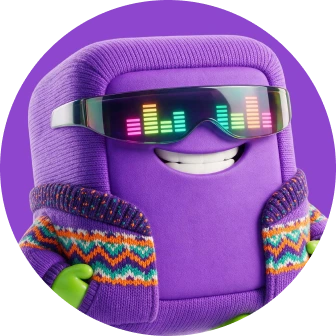
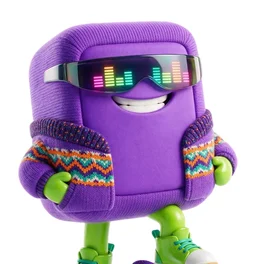
fix(learning): карта и итоги без прокрутки, ровные иконки королей
Карта. Остров держит соотношение 1600/2111, и на телефоне он выходил 495px
при 687px области — снизу оставалась белая плита. Плюс `.learn` жил на
min-height: 100vh, а это ВЫСОКИЙ вьюпорт: пока адресная строка показана,
страница выше видимой области и ездит на её высоту. Клиент назвал это «баги
из-за скрола».

Теперь высота от видимой области (dvh), прокрутка закрыта, а остров тянется
на всю высоту: ширину ему считает aspect-ratio, лишнее срезается по бокам.
Кроп именно боковой — координаты узлов заданы в процентах от канваса, и
разойдись канвас с картинкой в пропорциях, короли уехали бы со своих городов.
Все шесть сидят в пределах 39–63% ширины, проверено на 375×812, 412×880 и
360×640: ни один узел за экран не выходит, документ равен вьюпорту.

Узлы заодно стали крупнее: канвас теперь шире экрана, а размеры узлов заданы
в cqw от него.

Итоги урока. На 360×640 под них остаётся 515px, а карточка набирала 643 —
приходилось скроллить 160px, и обе кнопки уходили за нижний край; на 320×568
скролла было 232px. Добавлены две ступени по высоте экрана. Проверено на
четырёх размерах: прокрутка везде 0, кнопки на экране.

Иконки королей. Были нарезаны на глаз и врозь: разный зум, у части срезаны
руки, фон залит цветом кольца вместо белого. В исходниках все шесть маскотов
скадрированы одинаково (контент x[56..455], y[52..511], центр 256), так что
кадр теперь считается, а не подбирается — одинаковые поля у всех шести, белый
фон, фигура целиком. Заодно 202 КБ -> 84 КБ.
[…]

diff --git a/src/styles.css b/src/styles.css
@@ -2960,6 +2960,62 @@ textarea {
     top: 64px;
     font-size: 15px;
   }
+
+  /* Карта на телефоне — экран без прокрутки.
+     Остров держит соотношение 1600/2111, и на узкой ширине он выходил всего
+     495px при 687px области: снизу оставалась белая плита, а страница ездила на
+     высоту адресной строки (min-height: 100vh — это ВЫСОКИЙ вьюпорт, больше
+     видимой области, когда строка показана). Клиент это и назвал «из-за скрола».
+     Поэтому высоту задаём от видимой области (dvh), а остров тянем по высоте:
+     ширину ему считает aspect-ratio, лишнее по бокам срезается.
+
+     Кроп именно по бокам, а не подгонка соотношения: координаты узлов заданы в
+     процентах от канваса, и стоит канвасу разойтись с картинкой в пропорциях,
+     как короли уедут со своих городов. Все шесть сидят в пределах 39–63% ширины,
+     так что срезанные края узлов не задевают. */
+  .learn:has(.lp--map) {
+    height: 100dvh;
+    min-height: 0;
+    overflow: hidden;
+  }
+  /* Высоту раздаём флексом, а не процентами: .learn__main растянут
+     align-items: stretch, и процентная высота у его детей разрешается в ноль. */
+  .learn__main:has(.lp--map) {
+    overflow: hidden;
+    display: flex;
+    flex-direction: column;
+  }
+  .lp.lp--map {
+    flex: 1;
+    min-height: 0;
+    display: flex;
+    flex-direction: column;
+    /* .lp — грид с gap: 30px и align-items: start; переключая его во флекс, оба
+       надо перебить: gap стал бы полосой между нулевой шапкой и картой, а start
+       по поперечной оси не растягивает — и .lp-map схлопывался в нулевую
+       ширину, унося центрирование канваса. */
+    gap: 0;
+    align-items: stretch;
+  }
+  .lp-map {
+    flex: 1;
+    min-height: 0;
+    overflow: hidden;
+  }
+  /* Канвас — абсолютом от верха до низа: только так aspect-ratio считает ширину
+     от высоты. Растянутая флексом высота (align-self: stretch) для этого не
+     годится — из неё главный размер не выводится, и канвас схлопывался в ноль. */
+  .lp-map__canvas {
+    position: absolute;
+    top: 0;
+    bottom: 0;
+    left: 50%;
+    transform: translateX(-50%);
+    height: auto;
+    width: auto;
+    max-width: none;
+    margin: 0;
+  }
 }
 
 /* ═══════════════ Практика ═══════════════ */
@@ -4096,6 +4152,95 @@ textarea {
   }
   .le-fail {
     gap: 20px;
+  }
+}
+
+/* Низкие телефоны: экран итогов не должен прокручиваться вообще.
+   На 360×640 под итог остаётся 515px, а карточка набирала 643 — приходилось
+   скроллить 160px, и кнопки «Перейти на следующий урок» / «Пройти снова»
+   оказывались за нижним краем. Ужимаем по высоте ступенями, чтобы итог всегда
+   читался целиком: прокрутке тогда просто нечего делать. */
+@media (max-width: 760px) and (max-height: 720px) {
+  .le-card,
+  .le-card--fail {
+    gap: 10px;
+  }
+  .le-art {
+    width: 150px;
+  }
+  .le-art--win {
+    height: 190px;
+  }
+  .le-art--lose {
+    height: 175px;
+  }
+  .le-info {
+    gap: 12px;
+  }
+  .le-info--fail {
+    gap: 20px;
+  }
+  .le-pct {
+    padding: 8px 22px;
+    font-size: 22px;
+  }
+  .le-head {
+    gap: 5px;
+  }
+  .le-title {
+    font-size: 20px;
+  }
+  .le-sub {
+    font-size: 14px;
+  }
+  .le-bottom {
+    gap: 12px;
+  }
+  .le-acts {
+    gap: 10px;
+  }
+  .le-btn {
+    padding: 12px 20px;
+    font-size: 14px;
+  }
+  .le-stat {
+    padding: 10px 8px;
+  }
+  .le-stat__ic {
+    width: 26px;
+    height: 26px;
+  }
+  .le-stat b {
+    font-size: 20px;
+  }
+  .le-stat span {
+    font-size: 13px;
+  }
+  .le-heart {
+    width: 132px;
+    height: 126px;
+    padding: 18px;
+  }
+}
+
+@media (max-width: 760px) and (max-height: 600px) {
+  .le-over {
+    padding: 8px;
+  }
+  .le-art {
+    width: 110px;
+  }
+  .le-art--win {
+    height: 139px;
+  }
+  .le-art--lose {
+    height: 128px;
+  }
+  .le-info {
+    gap: 9px;
+  }
+  .le-bottom {
+    gap: 9px;
   }
 }
 
